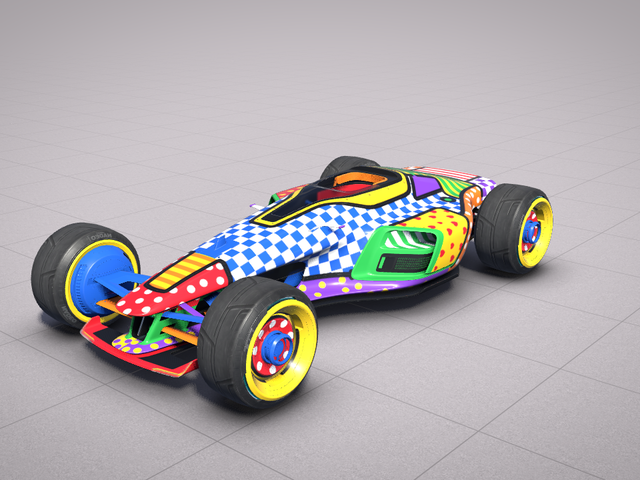
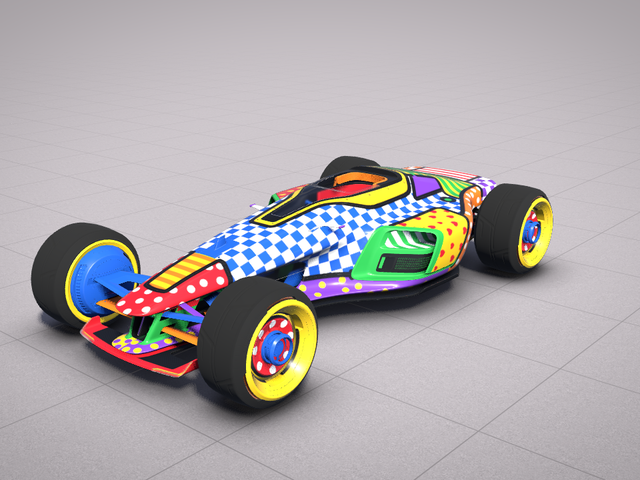
TSC_Britto: the surfaces pass (tyres, glass, lights, stays new)
A fresh agent's pass 3: tyres plain black rubber, the glass clear, every light its own palette colour (none the
stock's), no dirt on purpose (the language's ageing: none). The composition untouched; the same four pattern ends let
go again; close looks clean; the gate passes.

diff --git a/skins/TSC_Britto/design.py b/skins/TSC_Britto/design.py
@@ -1,7 +1,8 @@
 """TSC_Britto: Romero Britto's pop art made of the car's own parts, its two sides unlike, as Britto paints a face's two
 halves: each part its own colour and pattern, and on the right side each of the side's parts another colour or pattern
 than its twin on the left; a black line on every seam between two parts; the plates the game letters plain; the inner
-car's parts each a solid colour."""
+car's parts each a solid colour. All of it gloss, the tyres black rubber, the glass clear, every light its own colour of
+the palette, and no dirt ever: it stays new."""
 
 import numpy as np
 from PIL import Image
@@ -55,6 +56,18 @@ INNER = {  # the inner car's parts seen from outside, each a solid colour
     "side vane": BLUE, "side vent": ORANGE, "exhaust": GREEN, "rear bumper": PURPLE, "rear bumper corner": YELLOW,
     "rear strake": RED, "tail frame": BLUE, "cockpit rim": ORANGE, "seat": RED, "steering wheel": BLUE,
     "airbox": YELLOW, "wing bracket": GREEN, "brake caliper": RED, "rim": YELLOW, "hub": BLUE,
+}
+# the car's own lights, each its own colour, none the stock's, at full colour: the speed numbers, the gear bar along
+# the tail's top (in the blue tail frame), the slots inside the front wheels, the lamps on the front wing (night only)
+LIGHTS = {"speed numbers": YELLOW, "rear lights": GREEN, "brake lights": PURPLE, "front wing": YELLOW}
+# the ring round each wheel and the inner car's parts that carry a light of their own (strips, lamps, the cockpit's
+# glow), each lit in a colour of the palette that isn't its paint, at the stock brightness
+LIT = {
+    "wheel ring": ORANGE, "hub": ORANGE, "rear bumper": YELLOW, "side vane": ORANGE, "exhaust": YELLOW,
+    "sidepod panel": YELLOW, "sidepod frame": YELLOW, "sidepod strut": ORANGE, "sidepod boss": YELLOW,
+    "sidepod grille plate": YELLOW, "airbox": ORANGE, "tie rod": YELLOW, "steering wheel": ORANGE,
+    "steering column": ORANGE, "upper wishbone": ORANGE, "front bulkhead": PURPLE, "floor rail": PURPLE,
+    "cockpit tub": GREEN, "nose inner": GREEN,  # these two share their paint
 }
 
 
@@ -167,3 +180,23 @@ def design(s):
     s.paint("inner", "gloss plastic", colour=BLACK)
     for part, colour in INNER.items():
         s.paint(part, "gloss plastic", colour=colour)
+
+    s.step("Tyres and glass", "The tyres plain black rubber, the black line round the whole car; the glass clear, "
+           "so the red seat and the blue steering wheel show through the canopy.",
+           words="I want you to actually paint each part differently")
+    s.paint("tyres", "rubber", colour=BLACK)
+    s.glass(WHITE, 0.9)
+
+    s.step("The lights", "Every light its own colour of the palette, none the stock's: the speed numbers yellow, the "
+           "gear bar along the tail green, the slots inside the front wheels purple, the front wing's lamps sun "
+           "yellow at night, the ring round each wheel orange; "
+           "each inner part's own lamps and strips in a colour that isn't its paint.",
+           words="I want you to actually paint each part differently", look="rear night")
+    for part, colour in LIGHTS.items():
+        s.relight(part, colour)
+    for part, colour in LIT.items():
+        s.relight(part, colour, keep_level=True)
+
+    s.step("Stays new", "A freshly varnished canvas: no dirt, no wear, no fading, even on a dirt road.",
+           words="How about we design a car like that")
+    s.dirt(0, "everything")

diff --git a/skins/TSC_Britto/notes.md b/skins/TSC_Britto/notes.md
@@ -25,3 +25,16 @@ each section a flat primary or secondary colour with its own pattern (dots, stri
   left twins; the black seam outline holds it together (seams(): 4 cm, off the plates, the underside, the wing pylon
   and what's hidden); the plates plain in the colour round them; the inner car's parts solid colours (INNER); the
   wheel covers red with white dots in a yellow ring, a blue hub. Shown, judged, let go as before; close looks clean.
+- Surfaces, pass 3 (Claude, Opus 5.5, 2026-10-22): the body, its outline and the wheel covers stay gloss, the inner
+  car gloss plastic, as the language says. Added: the tyres plain black rubber (the black line round the car; the stock
+  markings gone); the glass clear (white at 0.9: the stock grey canopy and nose lens and the black mirror glass cleared,
+  so the red seat and blue steering wheel show, and the clear rear lens lets the braking red through); every light its
+  own colour of the palette, none left stock (checked texel by texel): the speed numbers yellow, the gear bar along the
+  tail green (blue was lost in the blue tail frame), the slots inside the front wheels purple, the front wing's lamps sun
+  yellow at night, the ring round each wheel a faint orange, and each inner part's own stock lamps and strips (white,
+  grey, cyan) in a palette colour that isn't its paint, at the stock brightness (LIT; the cockpit tub and nose inner
+  share paint, both green). No new glows: the body can't glow, and a glowing inner part also lights the paint it shares
+  (the front uprights, the floor). The car stays new on purpose, as the language's ageing says: no wear, no fading,
+  and no dirt even on a dirt road (s.dirt(0)). Shown, judged; the same four pattern ends let go again; close looks clean.
+- Open (Claude): the language gives white "the light in the car"; the lights took palette colours instead, as white
+  reads as the stock's. The language's line may want changing (the user's call).
